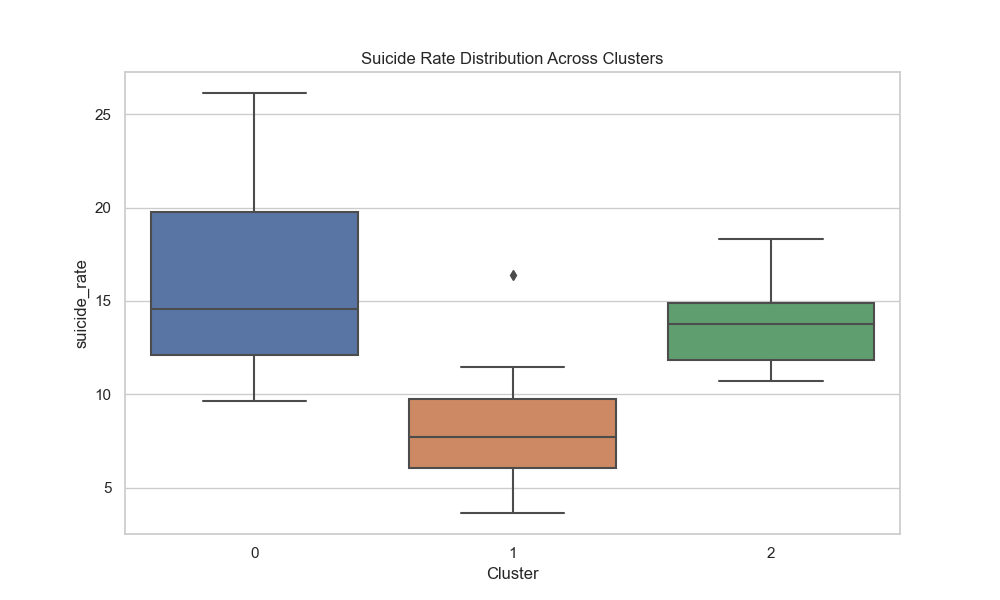
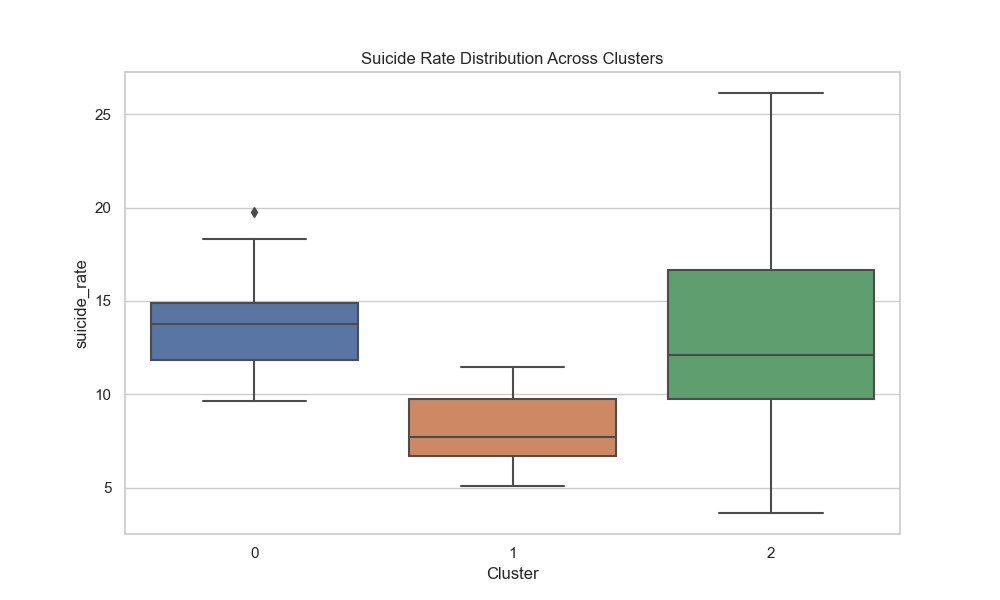
Added alcohol data

diff --git a/data_clustering.py b/data_clustering.py
@@ -9,7 +9,8 @@ features_df = pd.read_csv("data/feature_df.csv")# your dataframe here
 labels_df = pd.read_csv("data/label_df.csv")# your dataframe here
 
 # Drop the 'Country' column as it's categorical and not needed for clustering
-df_clustering = features_df.drop('country', axis=1)
+# Also drop the sunshine column as it's not needed for clustering
+df_clustering = features_df.drop(['country', 'annual_sunshine'], axis=1)
 
 # Standardize the data to ensure all features are on the same scale
 scaler = StandardScaler()
@@ -52,3 +53,8 @@ plt.savefig('Suicide_cluster.png')
 # Examine cluster characteristics
 cluster_centers = pd.DataFrame(kmeans.cluster_centers_, columns=df_clustering.columns)
 print(cluster_centers)
+
+# Save the countries and their cluster in a new df and save it to file
+countries_clusters_df = features_df[['country', 'Cluster']]
+countries_clusters_df.to_csv('countries_clusters.csv', index=False)
+print(countries_clusters_df)

diff --git a/data/raw_data/Average_age_of_leaving_parental_home preprocessing/Alcohol_consumption_processing/alcohol_consumption.py b/data/raw_data/Average_age_of_leaving_parental_home preprocessing/Alcohol_consumption_processing/alcohol_consumption.py
@@ -19,10 +19,15 @@ df['freq_value'] = df['frequenc'].map(freq_mapping)
 df['adjusted_freq_value'] = df['freq_value'] * df['OBS_VALUE']
 
 # Group by country and aggregate the frequency values
-result = df.groupby('geo')['adjusted_freq_value'].mean().reset_index()
+result = df.groupby('geo')['adjusted_freq_value'].sum().reset_index()
 
 # Print the result
 print(result)
 
 #Save as new csv file
-result.to_csv("data/alcohol_consumption_processed.csv", index=False)
+result.to_csv("data/raw_data/alcohol_consumption_processed.csv", index=False)
+
+# Calculate the value for Finland taken from 2014 data
+Finland_val = 4*2.7 + 36.8*3 + 29.6*2 + 16.1*1
+
+print(Finland_val)
